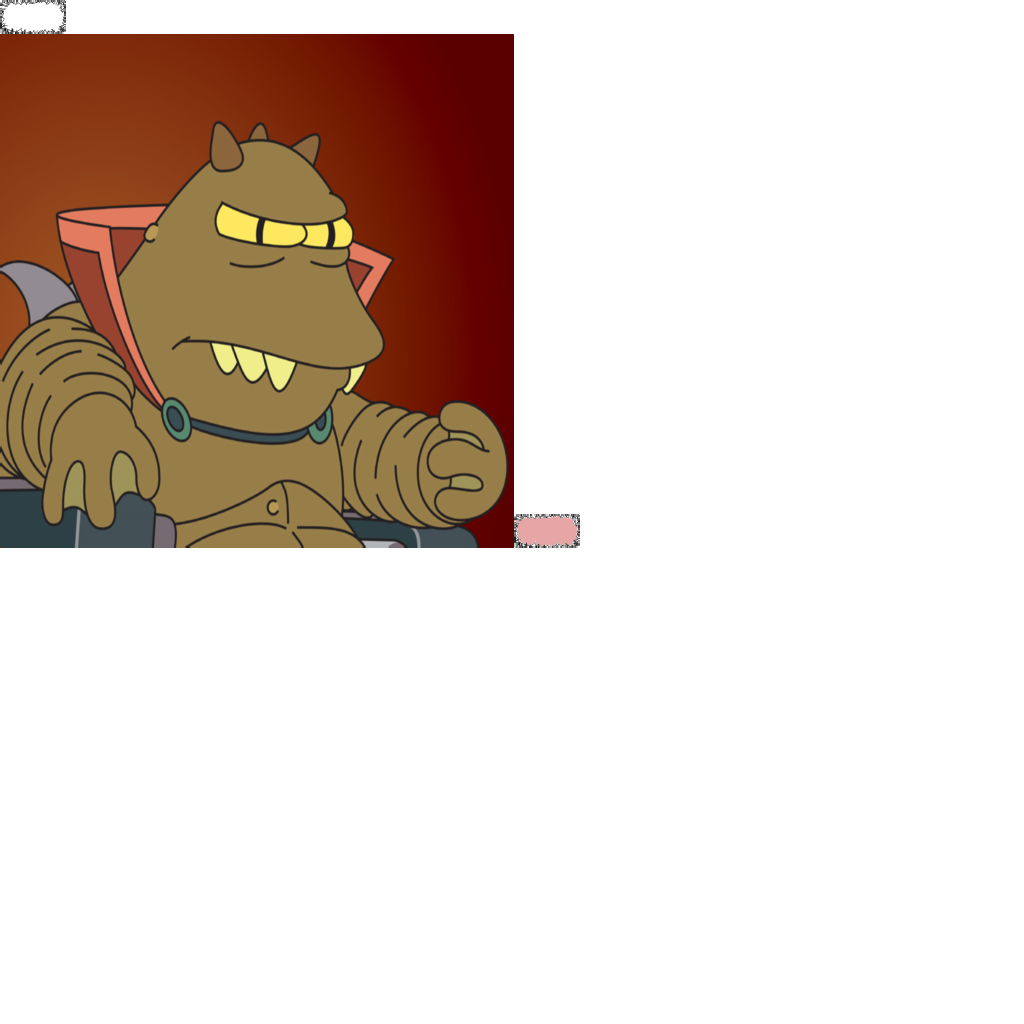
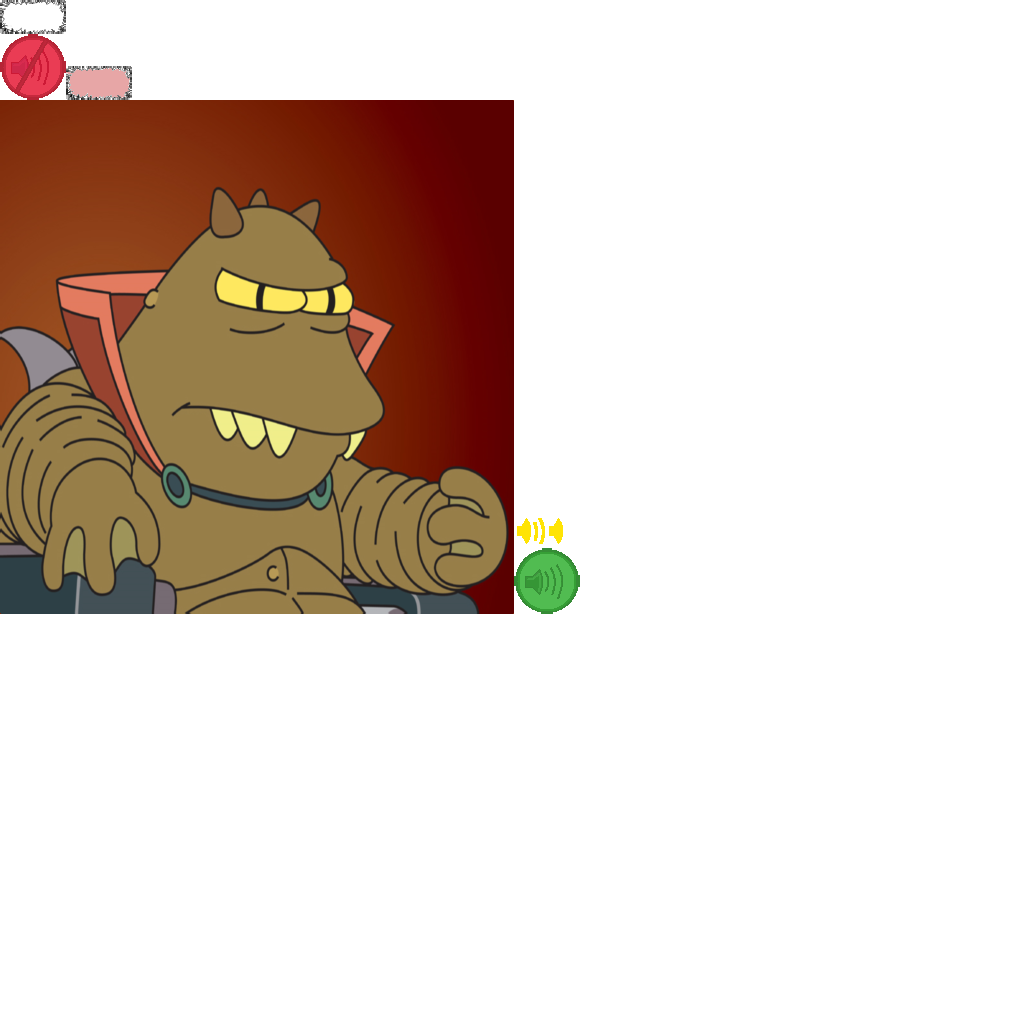
- new slots added in slots generator - go button in sms - sound button in menu

Changed region(s): [[0.0, 0.0312, 0.5938, 0.625]]

diff --git a/SwampMonster/src/com/me/swampmonster/slotMachineStuff/SlotMachineTextures.java b/SwampMonster/src/com/me/swampmonster/slotMachineStuff/SlotMachineTextures.java
@@ -15,11 +15,14 @@ import com.badlogic.gdx.graphics.g2d.Animation;
 import com.badlogic.gdx.graphics.g2d.BitmapFont;
 import com.badlogic.gdx.graphics.g2d.Sprite;
 import com.badlogic.gdx.graphics.g2d.SpriteBatch;
+import com.badlogic.gdx.graphics.g2d.TextureAtlas;
 import com.badlogic.gdx.graphics.glutils.ShapeRenderer;
 import com.badlogic.gdx.graphics.glutils.ShapeRenderer.ShapeType;
 import com.badlogic.gdx.math.Rectangle;
 import com.badlogic.gdx.math.Vector2;
 import com.badlogic.gdx.scenes.scene2d.Group;
+import com.badlogic.gdx.scenes.scene2d.ui.ImageButton;
+import com.badlogic.gdx.scenes.scene2d.ui.Skin;
 import com.me.swampmonster.animations.AnimationControl;
 import com.me.swampmonster.game.TheController;
 import com.me.swampmonster.models.Player;
@@ -34,6 +37,7 @@ import com.me.swampmonster.utils.Assets;
 import com.me.swampmonster.utils.Constants;
 import com.me.swampmonster.utils.GeneralUtils;
 import com.me.swampmonster.utils.SlotsGenerator;
+import com.sun.swing.internal.plaf.basic.resources.basic;
 
 public class SlotMachineTextures extends Group {
 	private BitmapFont font;
@@ -45,6 +49,7 @@ public class SlotMachineTextures extends Group {
 	public Sprite slotMachineWindow;
 	public Sprite slotMachineWindowYes;
 	public Sprite rerollButton;
+	public Sprite goButton;
 	public Sprite slotMachineWindowNo;
 	public Sprite slotLevel1;
 	public Sprite slotLevel2;
@@ -61,7 +66,13 @@ public class SlotMachineTextures extends Group {
 	public int selectedSlotNumber;
 	public int animCounter;
 	
+	private Skin skin;
+	public ImageButton goButtonButton;
+
 	public SlotMachineTextures(Player player) {
+		skin = new Skin(Gdx.files.internal("skins\\style.json"), new TextureAtlas(Gdx.files.internal("skins\\main.pack")));
+		goButtonButton = new ImageButton(skin);
+		
 		font = Assets.manager.get(Assets.font);
 		slotsGen = SlotsGenerator.getSlotGenerator();
 		
@@ -69,6 +80,8 @@ public class SlotMachineTextures extends Group {
 		slotMachineWindowYes = new Sprite(Assets.manager.get(Assets.slotMachineWindowYes));
 		slotMachineWindowNo = new Sprite(Assets.manager.get(Assets.slotMachineWindowNo));
 		rerollButton = new Sprite(Assets.manager.get(Assets.slotMachineWindowYes));
+		goButton = new Sprite (Assets.manager.get(Assets.goButton));
+		
 		animantionCtlr = new AnimationControl(Assets.manager.get(Assets.slotAnimation), 8, 1, 8);
 		notAnimating = new boolean[3];
 		
@@ -146,6 +159,7 @@ public class SlotMachineTextures extends Group {
 		}
 			this.slots = slotsSet.toArray(slots); 
 			GeneralUtils.shuffle(slots);
+			
 	}
 
 	@Override
@@ -154,12 +168,18 @@ public class SlotMachineTextures extends Group {
 		batch.draw(Assets.manager.get(Assets.slotMachineCase), 144, 112);
 		
 		rerollButton.setSize(90, 90);
-		rerollButton.setPosition(Constants.VIEWPORT_GUI_WIDTH*0.88f, Constants.VIEWPORT_GUI_HEIGHT*0.08f);
-		batch.draw(rerollButton, Constants.VIEWPORT_GUI_WIDTH*0.88f, Constants.VIEWPORT_GUI_HEIGHT*0.08f);
+		rerollButton.setPosition(Constants.VIEWPORT_GUI_WIDTH*0.45f, Constants.VIEWPORT_GUI_HEIGHT*0.18f);
+		batch.draw(rerollButton, Constants.VIEWPORT_GUI_WIDTH*0.45f, Constants.VIEWPORT_GUI_HEIGHT*0.18f);
+		
+		goButton.setSize(100, 100);
+		goButton.setPosition(Constants.VIEWPORT_GUI_WIDTH*0.85f, Constants.VIEWPORT_GUI_HEIGHT*0.05f);
+		batch.draw(goButton, Constants.VIEWPORT_GUI_WIDTH*0.85f, Constants.VIEWPORT_GUI_HEIGHT*0.05f, goButton.getWidth(), goButton.getHeight());
+		
+		goButton.draw(batch);
+		
 		animantionCtlr.doComplexAnimation(0, 1f, Gdx.graphics.getDeltaTime(), Animation.NORMAL);
 		int i = 0;
 		
-		int Oppa = 32;
 		Collections.sort(SlotMachineScreen.savedSlots, new Comparator<Slot>() {
 
 			@Override
@@ -196,15 +216,16 @@ public class SlotMachineTextures extends Group {
 			}
 		});
 		
-		
+		int Oppa = 32;
 		for(Slot s: SlotMachineScreen.savedSlots){
-//			System.out.println("stuff");
+			s.sprite.setPosition(Oppa, 10);
+			s.sprite.setSize(32, 32);
 			s.sprite.setX(Oppa);
 			s.sprite.setY(10);
-			batch.draw(s.sprite, s.sprite.getX(), s.sprite.getY());
+			batch.draw(s.sprite, s.sprite.getX(), s.sprite.getY(), s.sprite.getWidth(), s.sprite.getHeight());
 			Oppa += s.sprite.getWidth()+5;
+//			System.out.println("Oppa " + Oppa + " spriteSize " + s.sprite.getWidth());
 		}
-		
 		
 		while (i < 3) {
 			if (notAnimating[i]) {
@@ -288,7 +309,6 @@ public class SlotMachineTextures extends Group {
 			int ka = 0;
 			while(ka<3){
 				sr.rect(slotPositionsX[ka], slotPositionY, 146, 146);
-				System.out.println("boom");
 				ka++;
 			}
 			sr.end();

diff --git a/SwampMonster/src/com/me/swampmonster/screens/MenuScreen.java b/SwampMonster/src/com/me/swampmonster/screens/MenuScreen.java
@@ -10,6 +10,7 @@ import com.badlogic.gdx.scenes.scene2d.InputEvent;
 import com.badlogic.gdx.scenes.scene2d.Stage;
 import com.badlogic.gdx.scenes.scene2d.ui.Button;
 import com.badlogic.gdx.scenes.scene2d.ui.Image;
+import com.badlogic.gdx.scenes.scene2d.ui.ImageButton;
 import com.badlogic.gdx.scenes.scene2d.ui.Label;
 import com.badlogic.gdx.scenes.scene2d.ui.Skin;
 import com.badlogic.gdx.scenes.scene2d.ui.Table;
@@ -26,22 +27,38 @@ public class MenuScreen extends AbstractGameScreen{
 	Button playButton;
 	Button exitButton;
 	Button tutorialButton;
+	public static Button soundButton;
 	Label wrldConqueror;
 	Table table;
 	// Dmitriy's shinanigans
 	public static short lessBytes; 
 	public static boolean tutorialFinished;
 	public static boolean showTutorialButton;
+	public static boolean soundsEnabled = true;
 	public Music menuMusic;
 
-	
 	public MenuScreen(Game game) {
 		super(game);
 		skin = new Skin(Gdx.files.internal("skins\\style.json"), new TextureAtlas(Gdx.files.internal("skins\\main.pack")));
 		menuMusic = Assets.manager.get(Assets.menuBackgroundMusic);
-		
 		wrldConqueror = new Label(Constants.WORLDS_CONQUERROR, skin);
 		Gdx.input.setInputProcessor(stage);
+		 
+		soundButton = new ImageButton(skin);
+		soundButton.addListener(new ClickListener(){
+			@Override
+			public void clicked (InputEvent event, float x, float y){
+				if (soundsEnabled){
+					soundsEnabled = false;
+					menuMusic.setVolume(0);
+				} else {
+					soundsEnabled = true;
+					menuMusic.setVolume(13);
+					menuMusic.play();
+					menuMusic.setLooping(true);
+				}
+			}
+		});
 	}
 
 	@Override
@@ -59,9 +76,11 @@ public class MenuScreen extends AbstractGameScreen{
 	
 	@Override
 	public void show() {
-		menuMusic.play();
-		menuMusic.setLooping(true);
-		table = new Table();
+		if (soundsEnabled){
+			menuMusic.play();
+			menuMusic.setLooping(true);
+		}
+		table = new Table().right();
 		stage = new Stage();
 		Image img = new Image(new Texture("data/ui/wrldcnqr.png"));
 		img.toBack();
@@ -82,7 +101,7 @@ public class MenuScreen extends AbstractGameScreen{
 	        }
 		});
 		
-		table.add(playButton).size(150,60).padBottom(20).row();
+		table.add(playButton).size(150,60).padBottom(20).row().right();
 //		showTutorialButton = true;
 		if(showTutorialButton){
 			tutorialButton = new TextButton(Constants.TUTORIAL, skin);
@@ -97,7 +116,7 @@ public class MenuScreen extends AbstractGameScreen{
 		            ((Game) Gdx.app.getApplicationListener()).setScreen(ScreenContainer.SS);
 		        }
 			});
-			table.add(tutorialButton).size(150,60).padBottom(20).row();;
+			table.add(tutorialButton).size(150,60).padBottom(20).row().right();
 		}
 		
 		exitButton = new TextButton(Constants.EXIT, skin);
@@ -107,8 +126,10 @@ public class MenuScreen extends AbstractGameScreen{
 				Gdx.app.exit();
 			}
 		});
-	    table.add(exitButton).size(150,60).padBottom(20).row();
+		
+	    table.add(exitButton).size(150,60).padBottom(20).row().right();
 
+		table.add(soundButton).size(64,64).padBottom(50).free();
 	    table.setFillParent(true);
 	    stage.addActor(table);
 
@@ -121,10 +142,12 @@ public class MenuScreen extends AbstractGameScreen{
 	
 	@Override
 	public void pause() {
+		menuMusic.pause();
 	}
 	
 	@Override
 	public void resume() {
+		menuMusic.play();
 	}
 	
 	@Override

diff --git a/SwampMonster/src/com/me/swampmonster/screens/SlotMachineScreen.java b/SwampMonster/src/com/me/swampmonster/screens/SlotMachineScreen.java
@@ -10,7 +10,6 @@ import com.badlogic.gdx.graphics.g2d.SpriteBatch;
 import com.badlogic.gdx.math.Vector2;
 import com.badlogic.gdx.scenes.scene2d.Stage;
 import com.me.swampmonster.game.TheController;
-import com.me.swampmonster.models.AbstractGameObject.State;
 import com.me.swampmonster.models.slots.Perks;
 import com.me.swampmonster.models.slots.Slot;
 import com.me.swampmonster.slotMachineStuff.SlotMachineTextures;
@@ -46,8 +45,13 @@ public class SlotMachineScreen extends AbstractGameScreen {
 		victor = new Vector2(Gdx.input.getX(), Constants.VIEWPORT_HEIGHT
 				- Gdx.input.getY());
 		if (Gdx.input.justTouched() 
+				&& slotMachineTextures.goButton.getBoundingRectangle().contains(victor)){
+			((Game) Gdx.app.getApplicationListener()).setScreen(ScreenContainer.SS);
+		}
+		if (Gdx.input.justTouched() 
 				&& slotMachineTextures.rerollButton.getBoundingRectangle().contains(victor)){
 			slotMachineTextures.generateSlots(player);
+			yesWasJustPressed = false;
 			for (int i = 0; i < slotMachineTextures.notAnimating.length; i++){
 				slotMachineTextures.notAnimating[i] = false;
 			}
@@ -154,6 +158,7 @@ public class SlotMachineScreen extends AbstractGameScreen {
 				slotMachineTextures.peru = false;
 				if (!(slot instanceof Perks)){
 					((Game) Gdx.app.getApplicationListener()).setScreen(ScreenContainer.SS);
+					yesWasJustPressed = false;
 				}
 			}
 		}

diff --git a/SwampMonster/src/com/me/swampmonster/utils/SlotsGenerator.java b/SwampMonster/src/com/me/swampmonster/utils/SlotsGenerator.java
@@ -8,13 +8,13 @@ import com.me.swampmonster.models.Player;
 import com.me.swampmonster.models.slots.Arrows3;
 import com.me.swampmonster.models.slots.DamageTrap;
 import com.me.swampmonster.models.slots.ExplosiveArrow;
-import com.me.swampmonster.models.slots.ExplozionTrap;
 import com.me.swampmonster.models.slots.FrostTrap;
 import com.me.swampmonster.models.slots.ImproveArrowDamage;
 import com.me.swampmonster.models.slots.ImproveArrowSpeed;
 import com.me.swampmonster.models.slots.ImproveMaxHealth;
 import com.me.swampmonster.models.slots.ImproveMaxOxygen;
 import com.me.swampmonster.models.slots.ImproveMovementSpeed;
+import com.me.swampmonster.models.slots.PanicTeleport;
 import com.me.swampmonster.models.slots.PlasmaShieldSkill;
 import com.me.swampmonster.models.slots.PoisonArrow;
 import com.me.swampmonster.models.slots.PoisonTrap;
@@ -57,7 +57,7 @@ public class SlotsGenerator {
 		slots.put(1, PoisonTrap.class);
 		slots.put(2, DamageTrap.class);
 		slots.put(3, FrostTrap.class);
-		slots.put(4, ExplozionTrap.class);
+		slots.put(4, PanicTeleport.class);
 		slots.put(5, Arrows3.class);
 		slots.put(6, PlasmaShieldSkill.class);
 		slots.put(7, PoisonArrow.class);

diff --git a/SwampMonster/src/com/me/swampmonster/utils/Assets.java b/SwampMonster/src/com/me/swampmonster/utils/Assets.java
@@ -96,6 +96,10 @@ public class Assets {
 	public static final AssetDescriptor<Texture> exitMessageWindow = new AssetDescriptor<Texture>("data\\ExitMessageWindow.png", Texture.class); 
 	//effects
 	public static final AssetDescriptor<Texture> trailEffect = new AssetDescriptor<Texture>("data\\trailEffect.png", Texture.class);
+	
+	public static final AssetDescriptor<Texture> goButton = new AssetDescriptor<Texture>("data\\goButton.png", Texture.class);
+	public static final AssetDescriptor<Texture> PANIC_TELEPORT_ICON = new AssetDescriptor<Texture>("data\\slotIcons\\PANIC_TELEPORT__ICON.png", Texture.class);
+	
 	public static void load(){
 		manager.load(menuBackgroundMusic);
 		manager.load(turretImg);
@@ -159,6 +163,7 @@ public class Assets {
 		manager.load(POISONEDNEGATIVEEFFECT_ICON);
 		manager.load(SCAREDNEGATIVEEFFECT_ICON);
 		manager.load(STUNNEGATIVEEFFECT_ICON);
+		manager.load(PANIC_TELEPORT_ICON);
 		manager.load(slotLevel1);
 		manager.load(slotLevel2);
 		manager.load(slotLevel3);
@@ -184,7 +189,7 @@ public class Assets {
 		//Effects load
 		manager.load(trailEffect);
 		
-		
+		manager.load(goButton);
 //		manager.load(map);
 	}
 

diff --git a/SwampMonster/src/com/me/swampmonster/utils/SaveManager.java b/SwampMonster/src/com/me/swampmonster/utils/SaveManager.java
@@ -11,7 +11,6 @@ import com.badlogic.gdx.Gdx;
 import com.badlogic.gdx.files.FileHandle;
 import com.badlogic.gdx.math.Vector2;
 import com.badlogic.gdx.utils.Json;
-import com.me.swampmonster.models.Item;
 import com.me.swampmonster.models.L1;
 import com.me.swampmonster.models.Player;
 import com.me.swampmonster.models.slots.Slot;
@@ -28,7 +27,7 @@ public class SaveManager {
         if (file != null && file.exists()) {
             String s = file.readString();
             if (!s.isEmpty()) {
-            	System.err.println("puff: " + com.badlogic.gdx.utils.Base64Coder.decodeString(s));
+//            	System.err.println("puff: " + com.badlogic.gdx.utils.Base64Coder.decodeString(s));
                 return com.badlogic.gdx.utils.Base64Coder.decodeString(s);
             }
         }

diff --git a/SwampMonster/src/com/me/swampmonster/game/L1Renderer.java b/SwampMonster/src/com/me/swampmonster/game/L1Renderer.java
@@ -16,7 +16,6 @@ import com.me.swampmonster.models.AbstractGameObject.State;
 import com.me.swampmonster.models.Explosion;
 import com.me.swampmonster.models.Item;
 import com.me.swampmonster.models.L1;
-import com.me.swampmonster.models.PlasmaShield;
 import com.me.swampmonster.models.Player;
 import com.me.swampmonster.models.Projectile;
 import com.me.swampmonster.models.ProjectileHydra;

diff --git a/SwampMonster/src/com/me/swampmonster/models/slots/PanicTeleport.java b/SwampMonster/src/com/me/swampmonster/models/slots/PanicTeleport.java
@@ -23,7 +23,7 @@ public class PanicTeleport extends Slot{
 		descriptionByLevel.put(4, Constants.PANIC_TELEPORT_Description_L5);
 	}
 	public PanicTeleport() {
-		sprite = new Sprite(Assets.manager.get(Assets.SHADOW_ARROW_ICON));
+		sprite = new Sprite(Assets.manager.get(Assets.PANIC_TELEPORT_ICON));
 		
 		switch (level) {
 		case 0:

diff --git a/SwampMonster/src/com/me/swampmonster/MainSwamp.java b/SwampMonster/src/com/me/swampmonster/MainSwamp.java
@@ -12,7 +12,7 @@ public class MainSwamp extends Game {
 		Assets.load();
 		while (!Assets.manager.update()){
 		}
-		setScreen(ScreenContainer.SMS);
+		setScreen(ScreenContainer.MS);
 	}
 	@Override
 	public void dispose() {

diff --git a/SwampMonster/src/com/me/swampmonster/models/slots/Arrows3.java b/SwampMonster/src/com/me/swampmonster/models/slots/Arrows3.java
@@ -48,7 +48,6 @@ public class Arrows3 extends Slot{
 
 	@Override
 	public String getDescriptionForSaved() {
-		// TODO Auto-generated method stub
-		return null;
+		return descriptionByLevel.get(level-1);
 	}
 }
